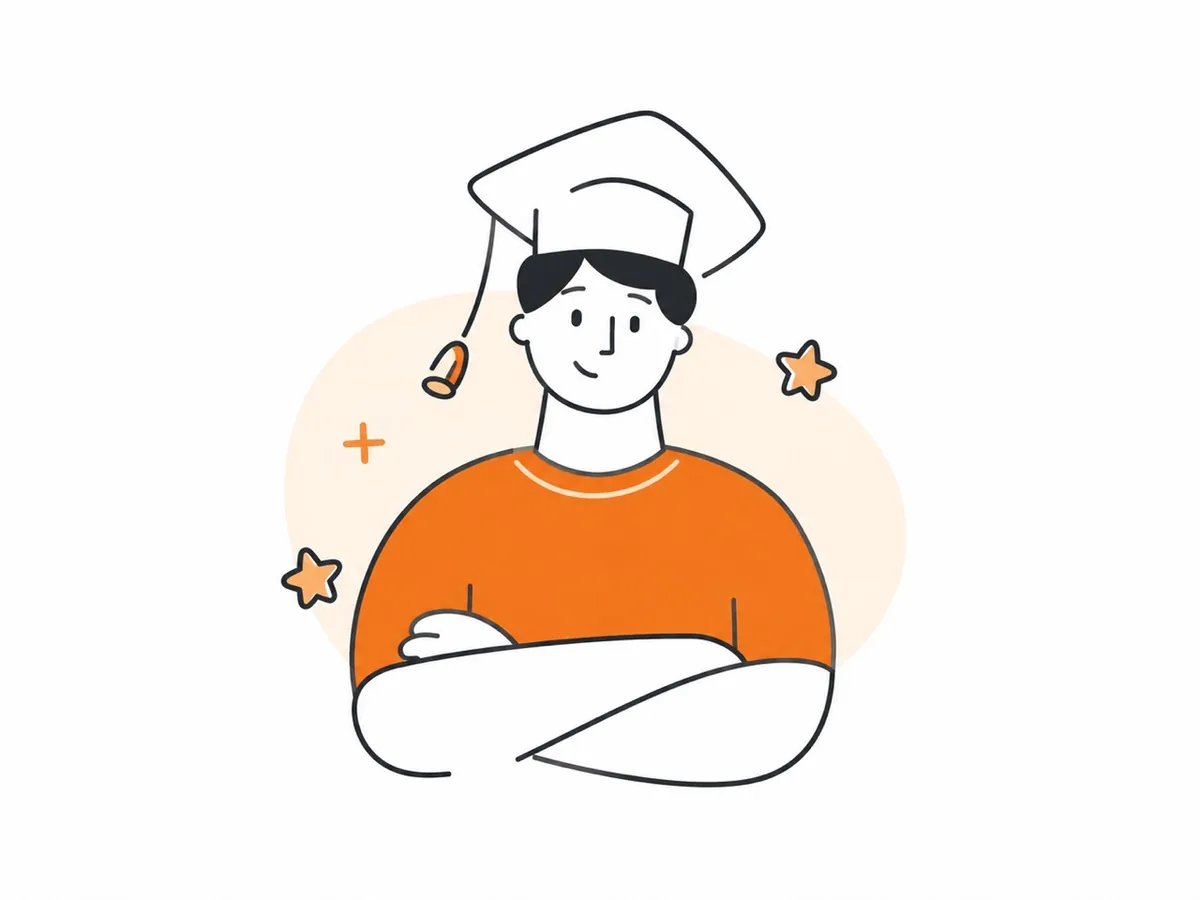
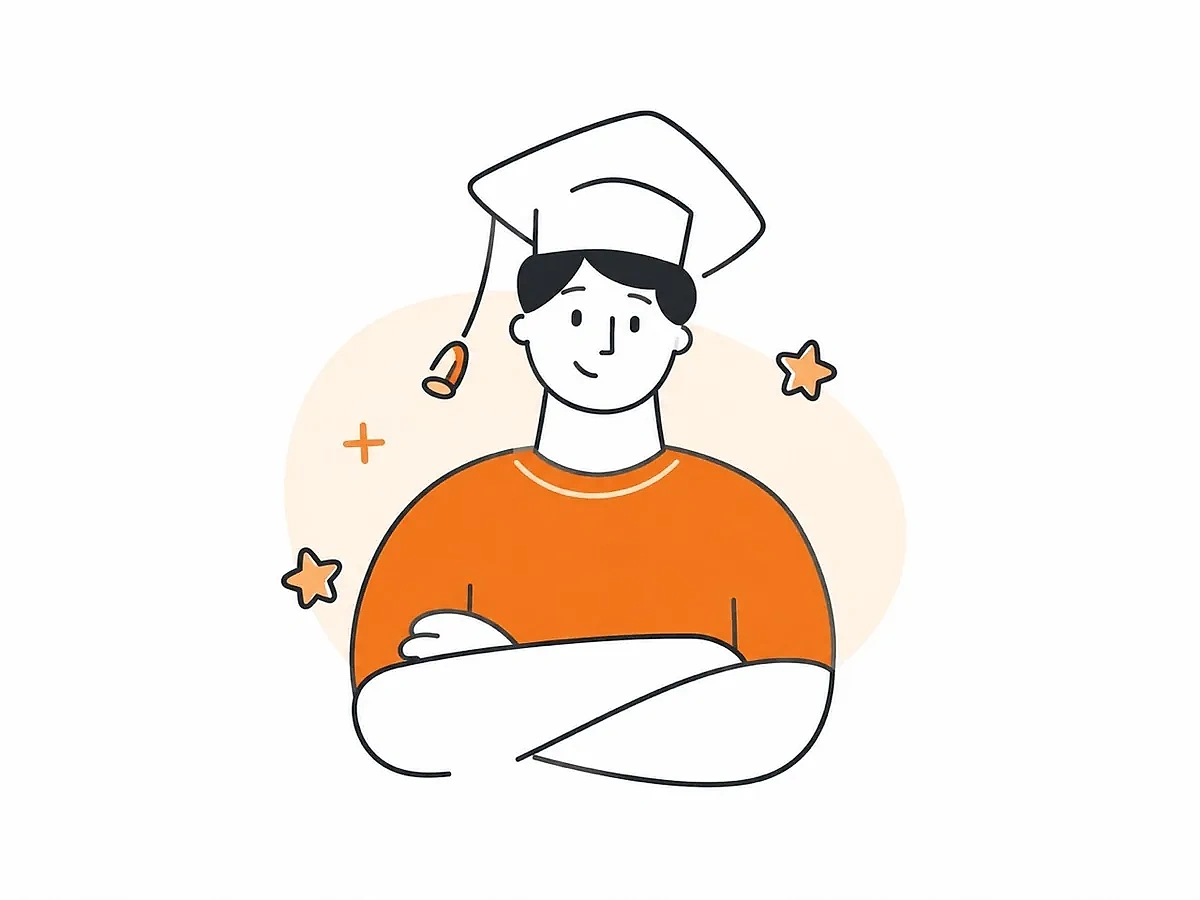
Refine image detail without changing artwork

diff --git a/src/entities/teacher/model/catalog.ts b/src/entities/teacher/model/catalog.ts
@@ -26,7 +26,7 @@ export const teachers: readonly Teacher[] = [
       'Подготовка к ОГЭ',
       'Подготовка к ЕГЭ',
     ],
-    photo: '/images/tutor-informatics.webp?v=20260929',
+    photo: '/images/tutor-informatics.webp?v=20260929b',
     intro:
       'Имеет опыт работы с учениками как репетитор и куратор: регулярно проводит индивидуальные созвоны, помогает разобраться в сложных темах и выстроить понятный план учёбы. Основное направление — информатика, включая школьную программу, ОГЭ и ЕГЭ. Также помогает с математикой, домашними заданиями и другими школьными предметами.',
     achievements: [
@@ -61,7 +61,7 @@ export const teachers: readonly Teacher[] = [
       'Школьная программа',
       'Домашние задания',
     ],
-    photo: '/images/tutor-english.webp?v=20260929',
+    photo: '/images/tutor-english.webp?v=20260929b',
     intro:
       'Имеет опыт работы с детьми дошкольного, младшего и среднего школьного возраста. Проводит индивидуальные и развивающие занятия, адаптирует материалы под возраст, уровень подготовки и особенности ученика. Основные направления — английский язык, история, начальная школа и помощь со школьной программой. В занятиях делает акцент на понятном объяснении, диалоге и спокойной атмосфере, в которой ученик может свободно задавать вопросы и не бояться ошибок.',
     achievements: [
@@ -94,7 +94,7 @@ export const teachers: readonly Teacher[] = [
       'Подготовка к ОГЭ',
       'Подготовка к ЕГЭ',
     ],
-    photo: '/images/tutor-anna.webp?v=20260929',
+    photo: '/images/tutor-anna.webp?v=20260929b',
     intro:
       'Учитель общеобразовательной школы с высшим педагогическим образованием по профилям «Русский язык и литература». Проводит занятия для учеников 5–11 классов: помогает разобраться в школьной программе, укрепить знания по русскому языку и литературе, подготовиться к ОГЭ и ЕГЭ. Сама сдала ЕГЭ по русскому языку на 98 баллов.',
     achievements: [
@@ -125,7 +125,7 @@ export const teachers: readonly Teacher[] = [
       'Домашние задания',
       'Подготовка к ОГЭ',
     ],
-    photo: '/images/tutor-artem.webp?v=20260929',
+    photo: '/images/tutor-artem.webp?v=20260929b',
     intro:
       'Уверенно знает русский язык и всю школьную программу. Помогает разобраться в правилах, восполнить пробелы и научиться применять теорию на практике — от домашних заданий и текущих тем до подготовки к ОГЭ. В занятиях делает акцент на понятной логике языка, внимательном разборе ошибок и спокойном темпе.',
     achievements: [
@@ -153,7 +153,7 @@ export const teachers: readonly Teacher[] = [
       'Домашние задания',
       'Подготовка к ОГЭ',
     ],
-    photo: '/images/tutor-alexandra-portrait-v2.webp?v=20260929',
+    photo: '/images/tutor-alexandra-portrait-v2.webp?v=20260929b',
     intro:
       'Более трёх лет помогает ученикам 5–11 классов разобраться в химии и биологии, повысить успеваемость и подготовиться к ОГЭ. Все её ученики сдали ОГЭ на «5». Объясняет сложные темы понятным языком и делает яркие конспекты, к которым удобно возвращаться при повторении.',
     achievements: [
@@ -184,7 +184,7 @@ export const teachers: readonly Teacher[] = [
       'Домашние задания',
       'Подготовка к ОГЭ',
     ],
-    photo: '/images/tutor-erlan.webp?v=20260929',
+    photo: '/images/tutor-erlan.webp?v=20260929b',
     intro:
       'Умеет понятно объяснять сложные темы и находить подход к детям. Помогает устранить пробелы, разобраться с домашними заданиями и системно подготовиться к ОГЭ. В работе сочетает спокойное объяснение, последовательную практику и регулярное закрепление материала.',
     achievements: [

diff --git a/src/pages/for-tutors/for-tutors-page.tsx b/src/pages/for-tutors/for-tutors-page.tsx
@@ -131,7 +131,7 @@ function MessageBuilder() {
 export default function ForTutorsPage() {
   return (
     <article className="for-tutors-page">
-      <header className="container tutor-page-heading"><div className="tutor-hero-copy"><h1>Работай репетитором онлайн с <span>TopRepet</span></h1><a className="button button-primary tutor-hero-cta" href="#application">Стать топ репетитором <ArrowRight size={20} aria-hidden="true" /></a></div><img className="tutor-hero-image" src="/images/for-repetitor-hero.png" alt="Команда преподавателей TopRepet" width="1448" height="1086" /></header>
+      <header className="container tutor-page-heading"><div className="tutor-hero-copy"><h1>Работай репетитором онлайн с <span>TopRepet</span></h1><a className="button button-primary tutor-hero-cta" href="#application">Стать топ репетитором <ArrowRight size={20} aria-hidden="true" /></a></div><img className="tutor-hero-image" src="/images/for-repetitor-hero.png?v=20260929b" alt="Команда преподавателей TopRepet" width="1448" height="1086" /></header>
       <section className="container for-tutors-section tutor-value" aria-labelledby="tutor-value-title">
         <div className="tutor-value-intro"><h2 id="tutor-value-title">Вы преподаёте. Мы помогаем найти учеников.</h2><p>TopRepet — сервис для репетиторов и учеников. Мы привлекаем запросы на занятия и помогаем подобрать преподавателя под цель ученика.</p></div>
         <div className="tutor-value-list"><div><Check aria-hidden="true" /><h3>Новые ученики</h3><p>Вашу анкету увидят ученики, которым подходит ваш предмет и формат занятий.</p></div><div><Check aria-hidden="true" /><h3>Понятная комиссия</h3><p>Низкая фиксированная комиссия — 200 ₽ с проведённого занятия стоимостью 1 200 ₽. Это 16,7%.</p></div><div><Check aria-hidden="true" /><h3>Ваше расписание</h3><p>Вы сообщаете, когда готовы проводить индивидуальные онлайн-занятия.</p></div></div>

diff --git a/src/widgets/hero/hero-carousel.tsx b/src/widgets/hero/hero-carousel.tsx
@@ -7,11 +7,11 @@ import {
 } from '../../../components/ui/carousel';
 
 const slides = [
-  { src: '/images/hero-slide-1.webp', alt: 'Скидка 300 рублей по промокоду ОСЕНЬ' },
-  { src: '/images/hero-slide-2.webp', alt: 'Ученик читает книгу' },
-  { src: '/images/hero-slide-3.webp', alt: 'Ученица занимается за ноутбуком' },
-  { src: '/images/hero-slide-4.webp', alt: 'Ученик занимается с книгой' },
-  { src: '/images/hero-slide-5.webp', alt: 'Выпускник в академической шапочке' },
+  { src: '/images/hero-slide-1.webp?v=20260929b', alt: 'Скидка 300 рублей по промокоду ОСЕНЬ' },
+  { src: '/images/hero-slide-2.webp?v=20260929b', alt: 'Ученик читает книгу' },
+  { src: '/images/hero-slide-3.webp?v=20260929b', alt: 'Ученица занимается за ноутбуком' },
+  { src: '/images/hero-slide-4.webp?v=20260929b', alt: 'Ученик занимается с книгой' },
+  { src: '/images/hero-slide-5.webp?v=20260929b', alt: 'Выпускник в академической шапочке' },
 ];
 
 export function HeroCarousel() {

diff --git a/index.html b/index.html
@@ -35,7 +35,7 @@
     />
 
     <meta property="og:url" content="https://toprepet.ru/" />
-    <meta property="og:image" content="https://toprepet.ru/social-preview-20260925.jpg?v=20260929" />
+    <meta property="og:image" content="https://toprepet.ru/social-preview-20260925.jpg?v=20260929b" />
     <meta property="og:image:width" content="1200" />
     <meta property="og:image:height" content="630" />
     <meta property="og:image:alt" content="TopRepet — сервис подбора репетиторов" />
@@ -55,7 +55,7 @@
       content="Выберите репетитора для школьных предметов, ОГЭ и ЕГЭ. Первое знакомство — 20 минут бесплатно."
     />
 
-    <meta name="twitter:image" content="https://toprepet.ru/social-preview-20260925.jpg?v=20260929" />
+    <meta name="twitter:image" content="https://toprepet.ru/social-preview-20260925.jpg?v=20260929b" />
     <meta name="twitter:image:alt" content="TopRepet — сервис подбора репетиторов" />
 
     <title>TopRepet — найдите репетитора под свою цель</title>
